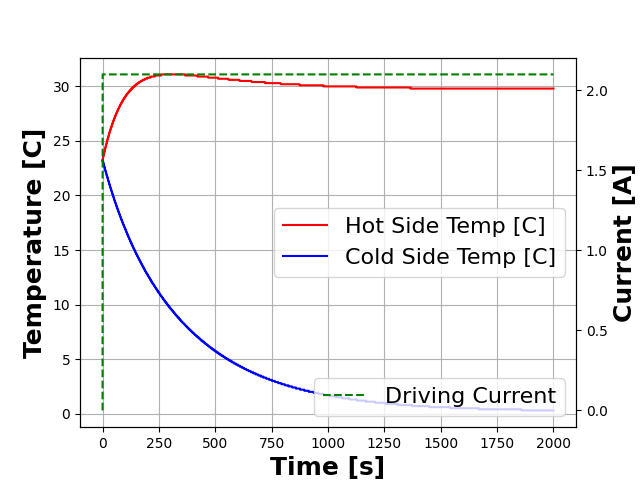
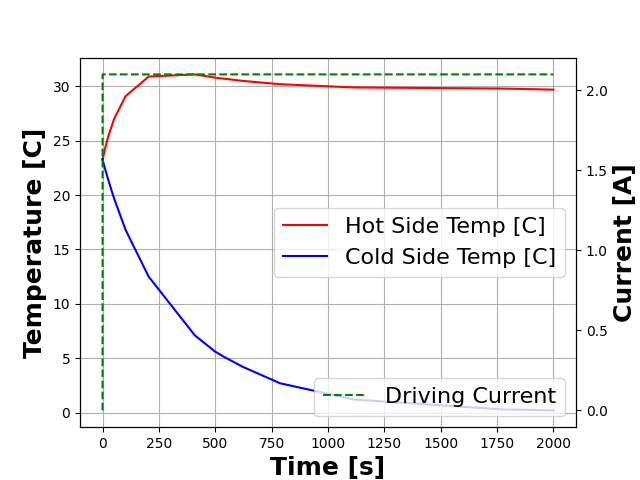
It seems like we may have fixed the transient bug.

diff --git a/OpenPelt/OpenPelt.py b/OpenPelt/OpenPelt.py
@@ -428,10 +428,18 @@ class tec_plant(Circuit):
         """
         sim = self._simulator()
         sim.options(reltol=5e-6)
-        anls = sim.transient(step_time=(1.00/(self.temp_sensor_samples_per_s *
-                                              self.sim_timesteps_per_sensor_sample))@u_s,
-                             end_time=self.sim_time_in_s@u_s,
-                             use_initial_condition=True)
+        step_size = (1.00/(self.temp_sensor_samples_per_s *
+                           self.sim_timesteps_per_sensor_sample))
+        stop_time = self.sim_time_in_s
+        start_time = 0.0
+        tmax = stop_time * 2.00
+        cmd = "tran {} {} {} {} uic".format(step_size,
+                                            stop_time,
+                                            start_time,
+                                            tmax)
+        # XXX: Hacky workaround to compensate for bugs in PySpice's sim.transient
+        self.ncs.load_circuit(str(self) + "\n.end")
+        self.ncs.exec_command(cmd)
         Th_final = self.get_th_sensor()[-1]
         Tc_final = self.get_tc_sensor()[-1]
         V_final = self.get_v_arr()[-1]

diff --git a/tests/transient.py b/tests/transient.py
@@ -18,7 +18,8 @@ if __name__ == "__main__":
     pC = OpenPelt.tec_plant("Detector",
                             lambda t, Th_arr: 2.1@u_A,
                             OpenPelt.Signal.CURRENT,
-                            plate_select)
+                            plate_select,
+                            temp_sensor_samples_per_s = 1.00 / 1000.00)
     start_t = time.time()
     pC.run_sim()
     end_t = time.time()
